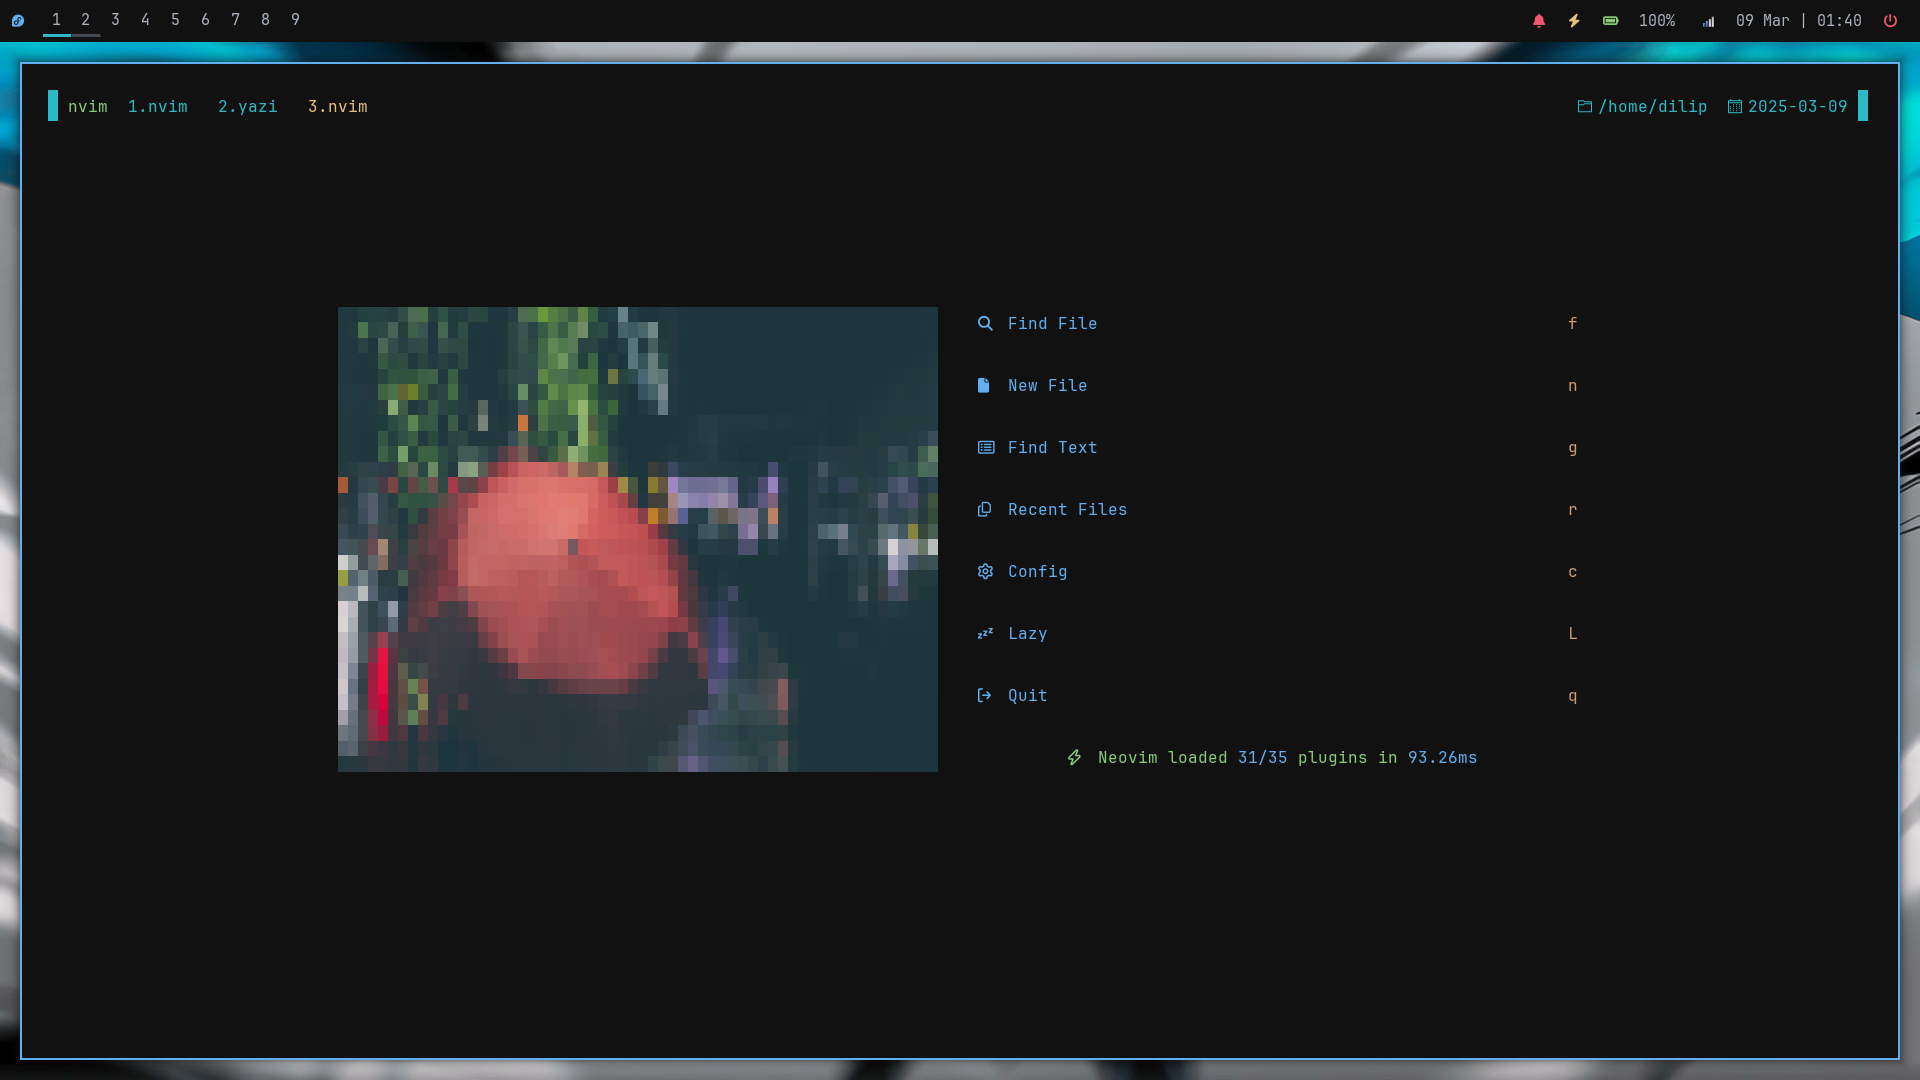
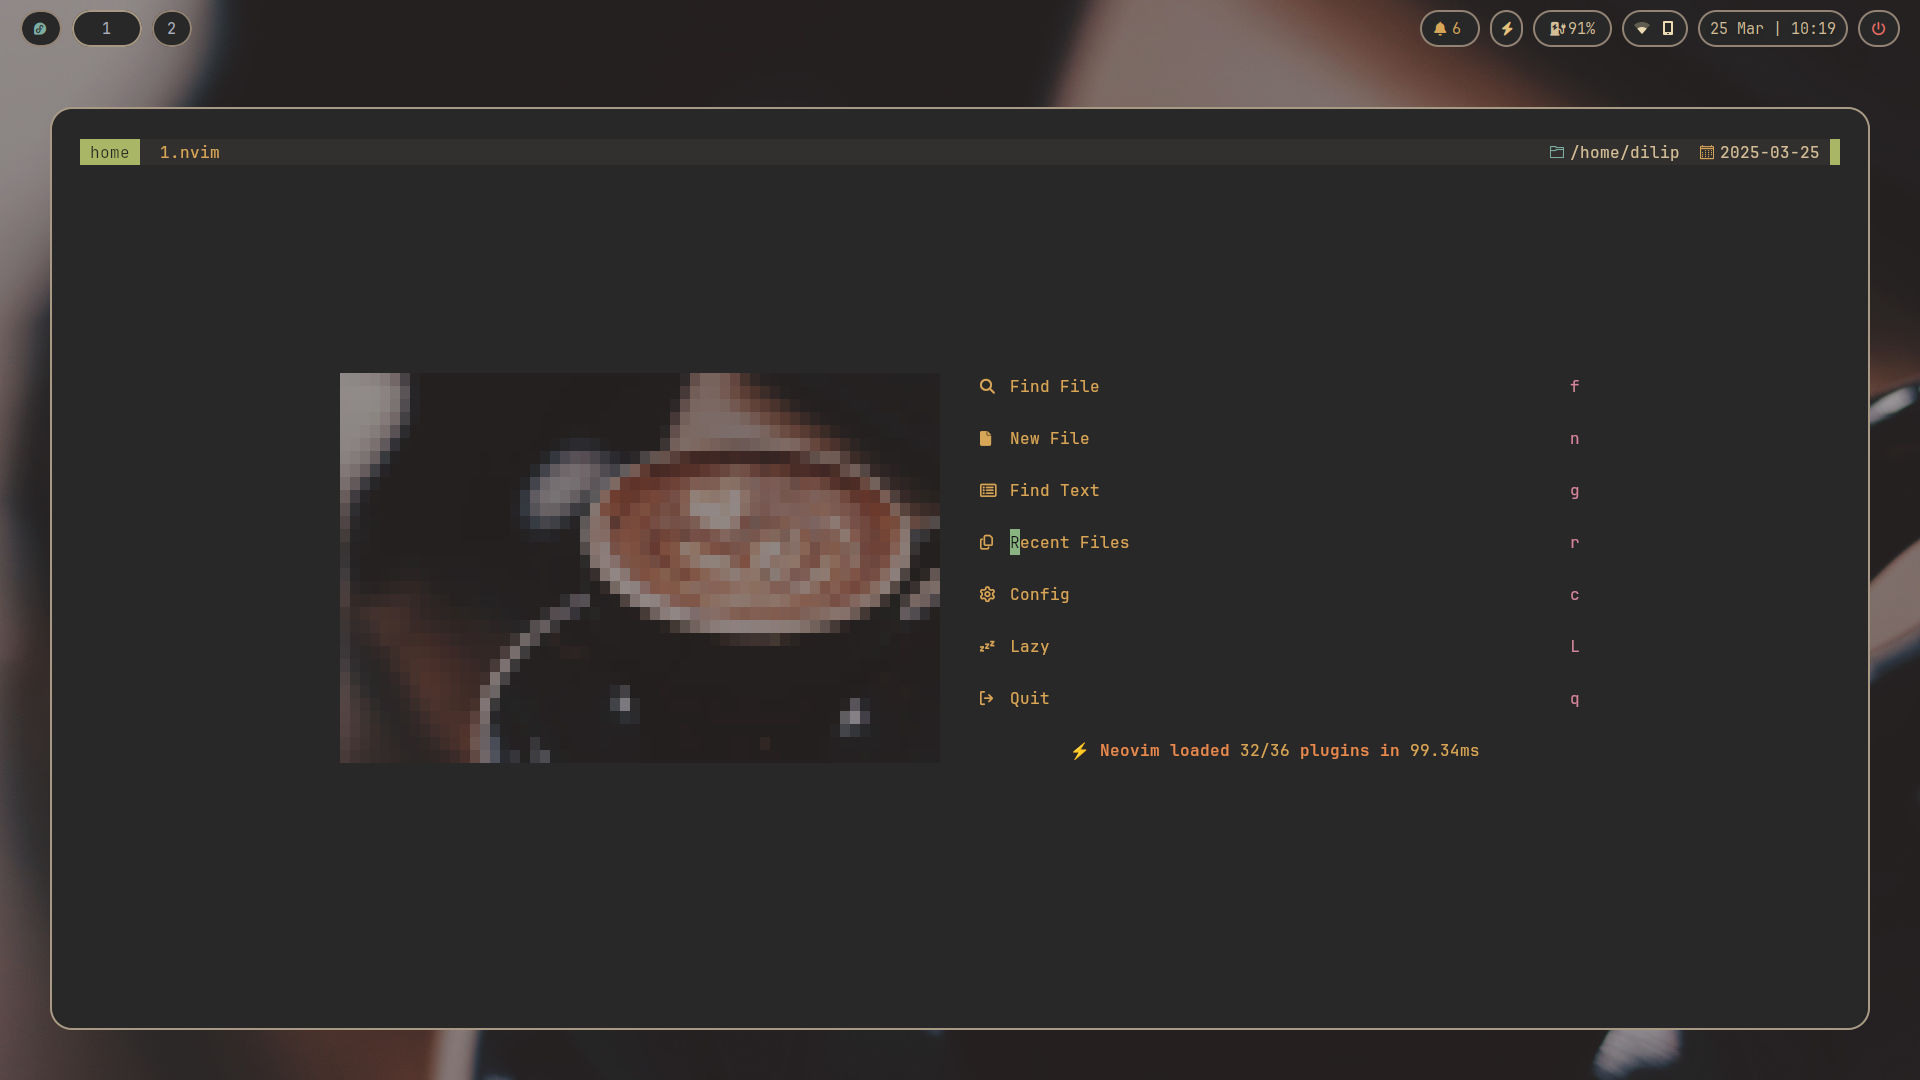
updated README.md

diff --git a/README.md b/README.md
@@ -1,4 +1,4 @@
 # dotfiles
 
-![yazi](https://github.com/TechnicalDC/dotfiles/blob/main/images/tmux.png)
+![desktop](https://github.com/TechnicalDC/dotfiles/blob/main/images/desktop.png)
 ![neovim](https://github.com/TechnicalDC/dotfiles/blob/main/images/neovim.png)
